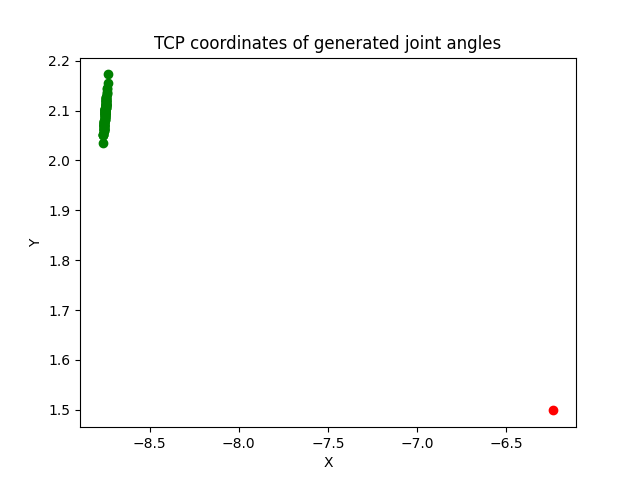
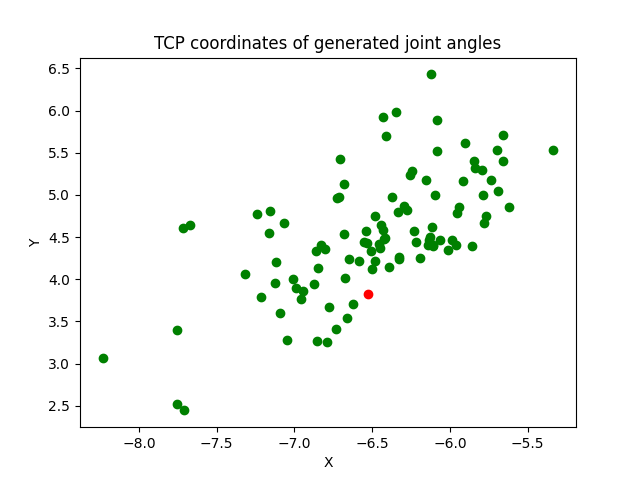
changed reduction from 'mean' to 'sum' in MSELoss

diff --git a/src/robotsim_test.py b/src/robotsim_test.py
@@ -24,7 +24,7 @@ if __name__ == '__main__':
     config = load_config('robotsim_cVAE.yaml', 'configs/')
 
     X_dim = config['input_dim']
-    hidden_dim = config['input_dim']
+    hidden_dim = config['hidden_dim']
     latent_dim = config['latent_dim']
     num_cond = config['condition_dim']
     num_epochs = config['num_epochs']
@@ -134,5 +134,36 @@ if __name__ == '__main__':
     plt.scatter(_x, _y, c='g')
     plt.scatter(tcp[0][0], tcp[0][1], c='r')
     plt.savefig('TCP_coordinates.png')
+
+    # visualise latent space
+    input = []
+    tcp = []
+    for i in range(NUM_SAMPLES):
+        input.append(test_dataset.__getitem__(i)[0])
+        tcp.append(test_dataset.__getitem__(i)[1])
+
+    input = torch.Tensor(input)
+    tcp = torch.Tensor(tcp)
+
+    # forward pass only accepts float
+    input = input.float()
+    tcp = tcp.float()
+
+    # apply sine and cosine to joint angles
+    input = preprocess(input)
+    print(tcp)
+
+    # forward propagation
+    with torch.no_grad():
+        z = cvae.visualise_z(input, tcp)
+
+    # print(z)
+
+    fig = plt.figure()
+    plt.title('Latent space')
+    plt.xlabel('Z1')
+    plt.ylabel('Z2')
+    plt.scatter(z[:, 0], z[:, 1], c='g')
+    plt.savefig('Latent_space.png')
 
     print('-----------------------------------------------')

diff --git a/src/robotsim_train.py b/src/robotsim_train.py
@@ -11,9 +11,6 @@ import robotsim
 import matplotlib.pyplot as plt
 from utils import *
 
-import yaml
-
-
 if __name__ == '__main__':
 
     '''
@@ -24,10 +21,14 @@ if __name__ == '__main__':
     # LOAD CONFIG
     ####################################################################################################################
 
+    # TODO: implement learning rate decay (lr-schedule)
+    # TODO: implement checkpoints
+    # TODO: Implement random search
+
     config = load_config('robotsim_cVAE.yaml', 'configs/')
 
     X_dim = config['input_dim']
-    hidden_dim = config['input_dim']
+    hidden_dim = config['hidden_dim']
     latent_dim = config['latent_dim']
     num_cond = config['condition_dim']
     num_epochs = config['num_epochs']

diff --git a/src/losses.py b/src/losses.py
@@ -23,8 +23,8 @@ This loss is created for unnormalized inputs without activation function in the 
 def VAE_loss_ROBOT_SIM(recon_x, x, mu, logvar, variational_beta):
 
     # try out what is better
-    recon_loss = F.mse_loss(recon_x, x)
-    # recon_loss = F.hinge_embedding_loss(recon_x, x)
+    # recon_loss = F.mse_loss(recon_x, x, reduction='mean')
+    recon_loss = F.mse_loss(recon_x, x, reduction='sum')
 
     # KL-divergence between the prior distribution over latent vectors
     kldivergence = -0.5 * torch.sum(1 + logvar - mu.pow(2) - logvar.exp())

diff --git a/src/models/CVAE.py b/src/models/CVAE.py
@@ -133,6 +133,14 @@ class CVAE(nn.Module):
         else:
             return mu
 
+    def visualise_z(self, x, condition):
+        if self.classification:
+            condition = onehot(condition.view(-1, 1), self.num_condition)
+        x = torch.cat((x, condition), dim=1)
+        latent_mu, latent_logvar = self.encoder(x)
+        latent = self.latent_sample(latent_mu, latent_logvar)
+        return latent
+
 
     def predict(self, x, condition):
         x = torch.cat((x, condition), dim=1)

diff --git a/README.md b/README.md
@@ -1,3 +1,5 @@
 # ADLR Project
 
 - run build.sh to install requirements
+
+- TODO: implement rejection sampling for robotsim for comparing with cVAE
